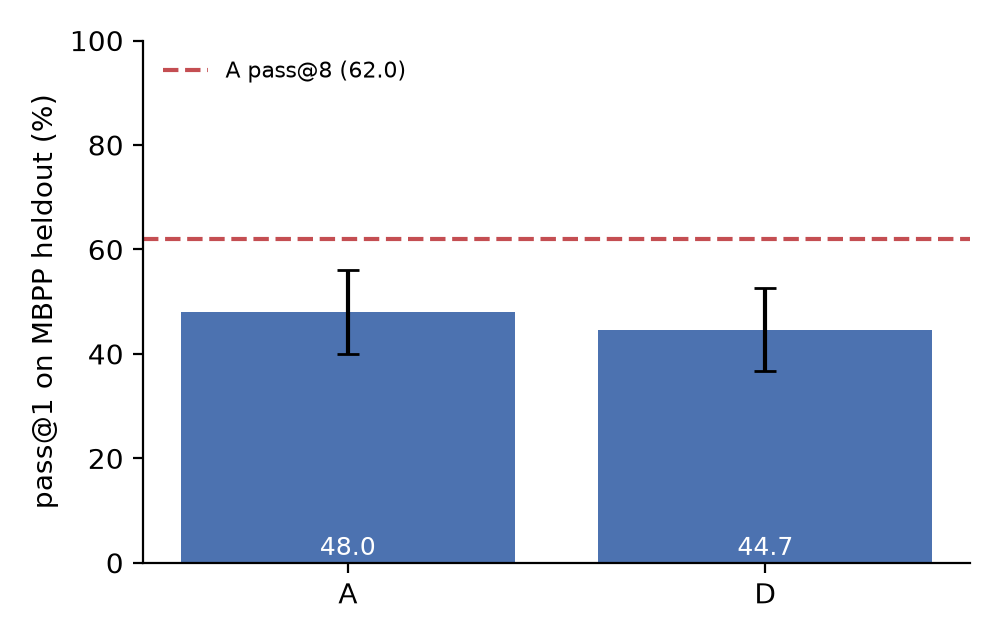
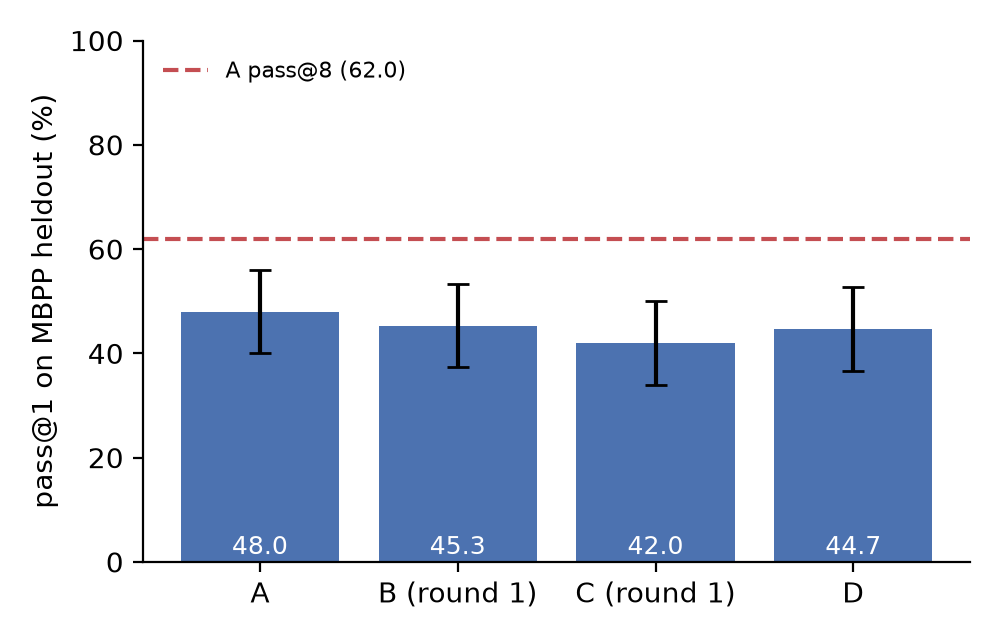
Analysis of round 1: A, B_round1, C_round1, D on test and heldout
Gain recovered is reported as undefined when D doesn't beat A (heldout),
instead of a ratio with a meaningless interval.

diff --git a/scripts/analyze.py b/scripts/analyze.py
@@ -102,6 +102,10 @@ def write_tables(a: dict, out: Path) -> None:
         md.append("")
     for k, g in a["bootstrap"]["gain_recovered"].items():
         run, ref = k.split(" vs ")
+        if g["estimate"] is None:
+            md.append(f"- Share of {label(ref)}'s gain recovered by {label(run)}: undefined, "
+                      f"{label(ref)} does not beat {a['base']} here")
+            continue
         interval = "" if g["ci95"] is None else f" [{pct(g['ci95'][0])}, {pct(g['ci95'][1])}]"
         note = "" if a.get("reference_gain", {}).get("significant") else \
             f" ({label(ref)}'s own gain over {a['base']} is not significant, so this ratio is unstable)"
@@ -261,10 +265,13 @@ def main():
         print(f"McNemar {x} vs {y}: only {x} {t['only_first']}, only {y} {t['only_second']}, "
               f"p = {fmt_p(t['p_value'])} (Holm {fmt_p(t['p_value_holm'])})")
     for key, g in analysis["bootstrap"]["gain_recovered"].items():
+        if g["estimate"] is None:
+            print(f"Gain recovered, {key}: undefined ({args.reference} does not beat {args.base} here)")
+            continue
         interval = "" if g["ci95"] is None else f" [{pct(g['ci95'][0])}, {pct(g['ci95'][1])}]"
         print(f"Gain recovered, {key}: {pct(g['estimate'])}%{interval}")
     ref = analysis.get("reference_gain")
-    if ref and not ref["significant"] and analysis["bootstrap"]["gain_recovered"]:
+    if ref and ref["difference"] > 0 and not ref["significant"] and analysis["bootstrap"]["gain_recovered"]:
         print(f"Caution: {args.reference}'s gain over {args.base} is not significant "
               f"({100 * ref['difference']:+.1f} points, p = {fmt_p(ref['p_value_holm'])}), so the gain-recovered "
               f"ratio is unstable. Report the direct comparisons with {args.reference} instead.")

diff --git a/results/analysis/test/results_table.tex b/results/analysis/test/results_table.tex
@@ -7,7 +7,9 @@
 Run & Trained on & pass@1 & $\Delta$ & $p$ & Wrong & Runtime \\
 \midrule
 A & nothing (base model) & 33.6 [29.4, 37.8] &  &  & 54.6 & 11.2 \\
-D & human solutions & 37.2 [33.0, 41.4] & +3.6 [-0.6, +7.8] & 0.114 & 51.2 & 10.2 \\
+B (round 1) & own passing solutions & 35.2 [31.0, 39.4] & +1.6 [-1.4, +4.8] & 1.000 & 53.0 & 10.8 \\
+C (round 1) & own solutions, unfiltered & 32.4 [28.4, 36.4] & -1.2 [-4.2, +1.6] & 1.000 & 56.8 & 10.4 \\
+D & human solutions & 37.2 [33.0, 41.4] & +3.6 [-0.6, +7.8] & 0.456 & 51.2 & 10.2 \\
 \bottomrule
 \end{tabular}
 \end{table}

diff --git a/results/analysis/heldout/results_table.tex b/results/analysis/heldout/results_table.tex
@@ -7,7 +7,9 @@
 Run & Trained on & pass@1 & $\Delta$ & $p$ & Wrong & Runtime \\
 \midrule
 A & nothing (base model) & 48.0 [40.0, 56.0] &  &  & 44.7 & 7.3 \\
-D & human solutions & 44.7 [36.7, 52.7] & -3.3 [-10.0, +3.3] & 0.442 & 48.0 & 5.3 \\
+B (round 1) & own passing solutions & 45.3 [37.3, 53.3] & -2.7 [-8.0, +2.7] & 1.000 & 45.3 & 9.3 \\
+C (round 1) & own solutions, unfiltered & 42.0 [34.0, 50.0] & -6.0 [-11.3, -0.7] & 0.245 & 49.3 & 8.7 \\
+D & human solutions & 44.7 [36.7, 52.7] & -3.3 [-10.0, +3.3] & 1.000 & 48.0 & 5.3 \\
 \bottomrule
 \end{tabular}
 \end{table}

diff --git a/results/analysis/test/results_table.md b/results/analysis/test/results_table.md
@@ -3,4 +3,13 @@ MBPP test (500 problems), greedy decoding. Percentages; failure columns are shar
 | Run | Trained on | pass@1 [95% CI] | vs A | McNemar p (Holm) | pass@8 | Wrong answer | Runtime error | Other |
 |---|---|---|---|---|---|---|---|---|
 | A | nothing (base model) | 33.6 [29.4, 37.8] |  |  | 55.0 | 54.6 | 11.2 | 0.6 |
-| D | human solutions | 37.2 [33.0, 41.4] | +3.6 [-0.6, +7.8] | 0.114 |  | 51.2 | 10.2 | 1.4 |
+| B (round 1) | own passing solutions | 35.2 [31.0, 39.4] | +1.6 [-1.4, +4.8] | 1.000 |  | 53.0 | 10.8 | 1.0 |
+| C (round 1) | own solutions, unfiltered | 32.4 [28.4, 36.4] | -1.2 [-4.2, +1.6] | 1.000 |  | 56.8 | 10.4 | 0.4 |
+| D | human solutions | 37.2 [33.0, 41.4] | +3.6 [-0.6, +7.8] | 0.456 |  | 51.2 | 10.2 | 1.4 |
+
+Other comparisons (McNemar, Holm-corrected):
+
+- C (round 1) vs B (round 1): -2.8 points [-5.8, +0.2], only B (round 1) solves 35, only C (round 1) solves 21, p = 0.407
+- D vs B (round 1): +2.0 points [-2.4, +6.4], only B (round 1) solves 55, only D solves 65, p = 1.000
+- Share of D's gain recovered by B (round 1): 44.4% [-70.5, 266.7] (D's own gain over A is not significant, so this ratio is unstable)
+- Share of D's gain recovered by C (round 1): -33.3% [-433.3, 42.9] (D's own gain over A is not significant, so this ratio is unstable)

diff --git a/results/analysis/heldout/results_table.md b/results/analysis/heldout/results_table.md
@@ -3,4 +3,13 @@ MBPP heldout (150 problems), greedy decoding. Percentages; failure columns are s
 | Run | Trained on | pass@1 [95% CI] | vs A | McNemar p (Holm) | pass@8 | Wrong answer | Runtime error | Other |
 |---|---|---|---|---|---|---|---|---|
 | A | nothing (base model) | 48.0 [40.0, 56.0] |  |  | 62.0 | 44.7 | 7.3 | 0.0 |
-| D | human solutions | 44.7 [36.7, 52.7] | -3.3 [-10.0, +3.3] | 0.442 |  | 48.0 | 5.3 | 2.0 |
+| B (round 1) | own passing solutions | 45.3 [37.3, 53.3] | -2.7 [-8.0, +2.7] | 1.000 |  | 45.3 | 9.3 | 0.0 |
+| C (round 1) | own solutions, unfiltered | 42.0 [34.0, 50.0] | -6.0 [-11.3, -0.7] | 0.245 |  | 49.3 | 8.7 | 0.0 |
+| D | human solutions | 44.7 [36.7, 52.7] | -3.3 [-10.0, +3.3] | 1.000 |  | 48.0 | 5.3 | 2.0 |
+
+Other comparisons (McNemar, Holm-corrected):
+
+- C (round 1) vs B (round 1): -3.3 points [-8.7, +1.3], only B (round 1) solves 10, only C (round 1) solves 5, p = 1.000
+- D vs B (round 1): -0.7 points [-7.3, +6.0], only B (round 1) solves 14, only D solves 13, p = 1.000
+- Share of D's gain recovered by B (round 1): undefined, D does not beat A here
+- Share of D's gain recovered by C (round 1): undefined, D does not beat A here

diff --git a/results/analysis/round0/round0.md b/results/analysis/round0/round0.md
@@ -29,3 +29,5 @@
 | Run | Examples | LR | Epochs | Seconds | Peak GPU GB | GPU | Loss first → final |
 |---|---|---|---|---|---|---|---|
 | D | 314 | 0.0005 | 2 | 49.1 | 8.61 | Tesla T4 | 0.742 → 0.392 |
+| B_round1 | 521 | 0.0005 | 2 | 83.4 | 9.37 | Tesla T4 | 0.244 → 0.144 |
+| C_round1 | 1247 | 0.0005 | 2 | 218.3 | 12.63 | Tesla T4 | 0.240 → 0.171 |
